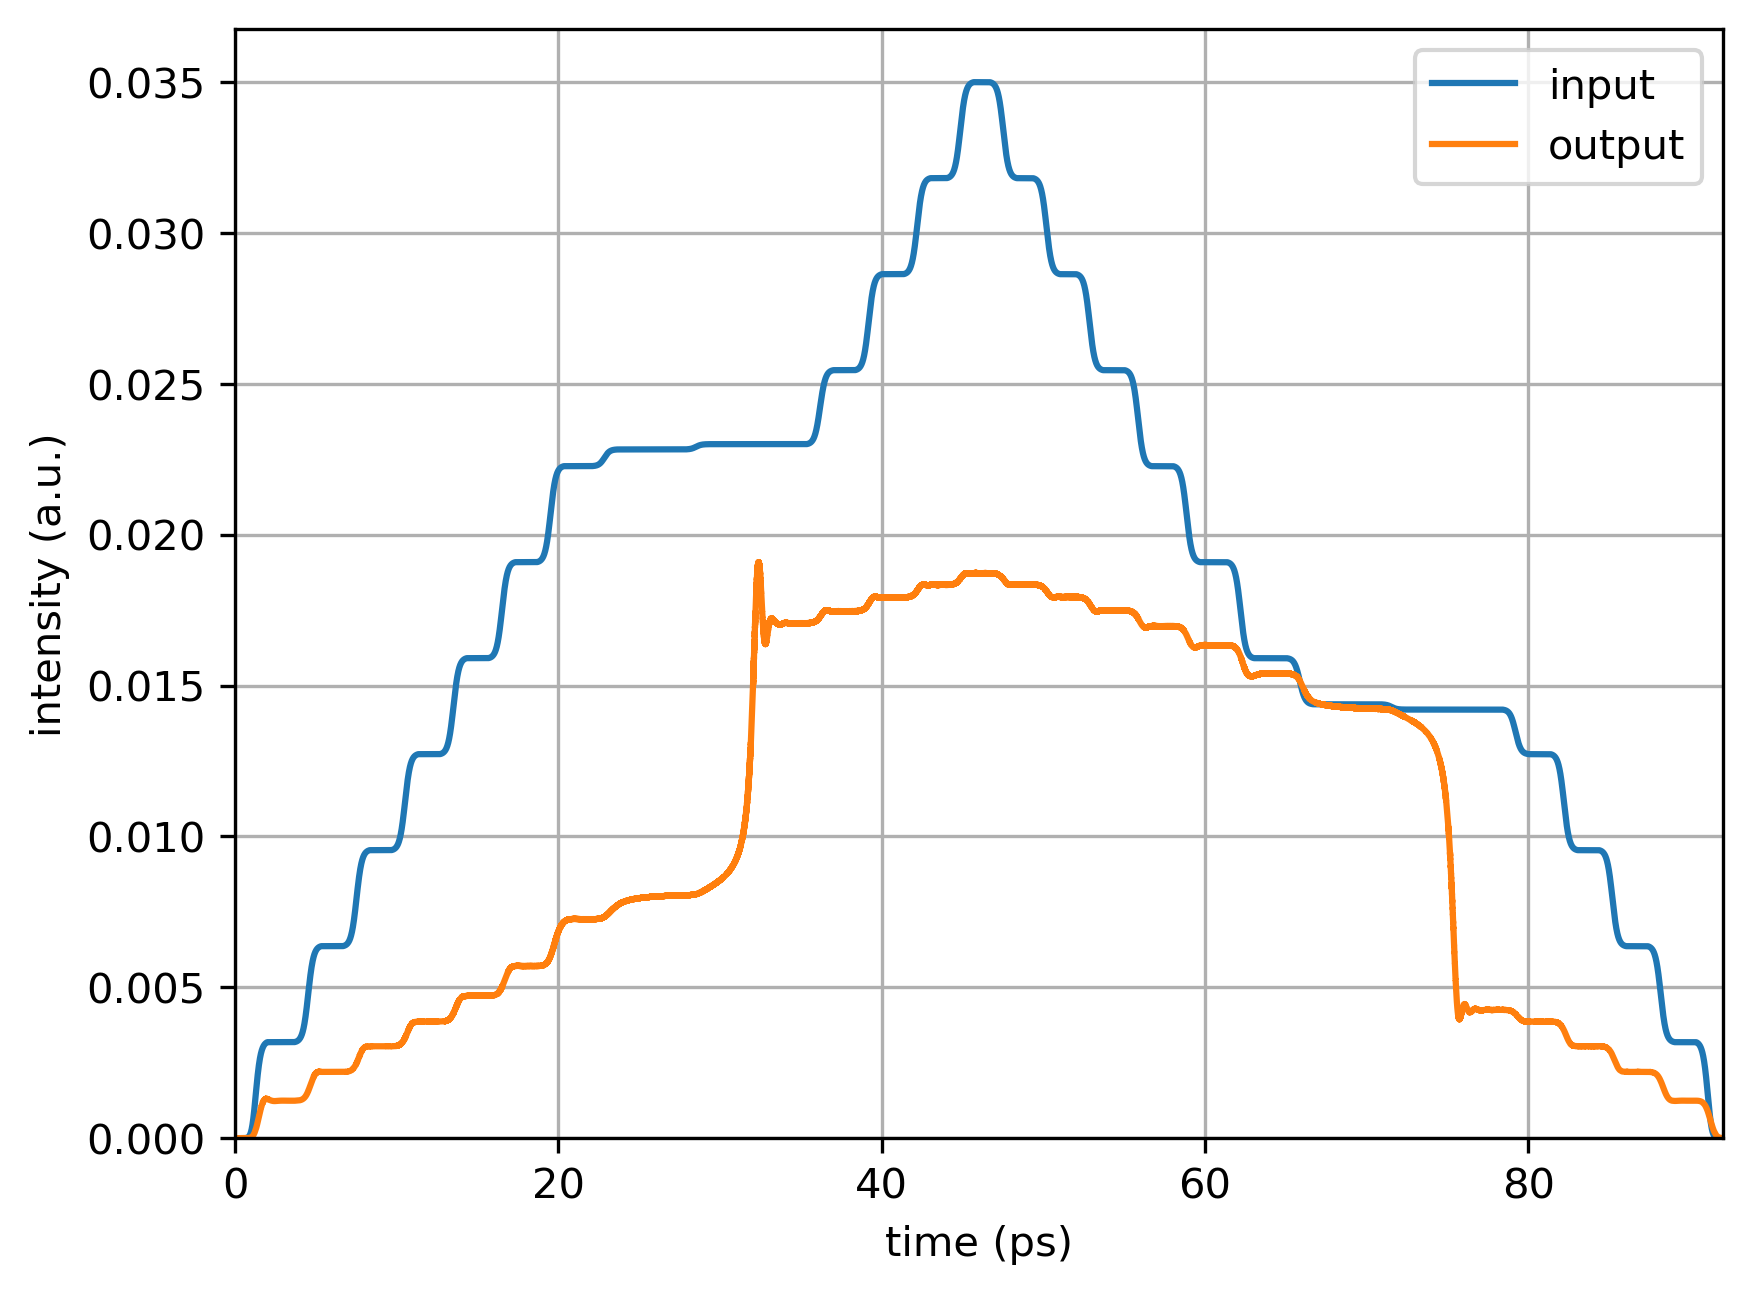
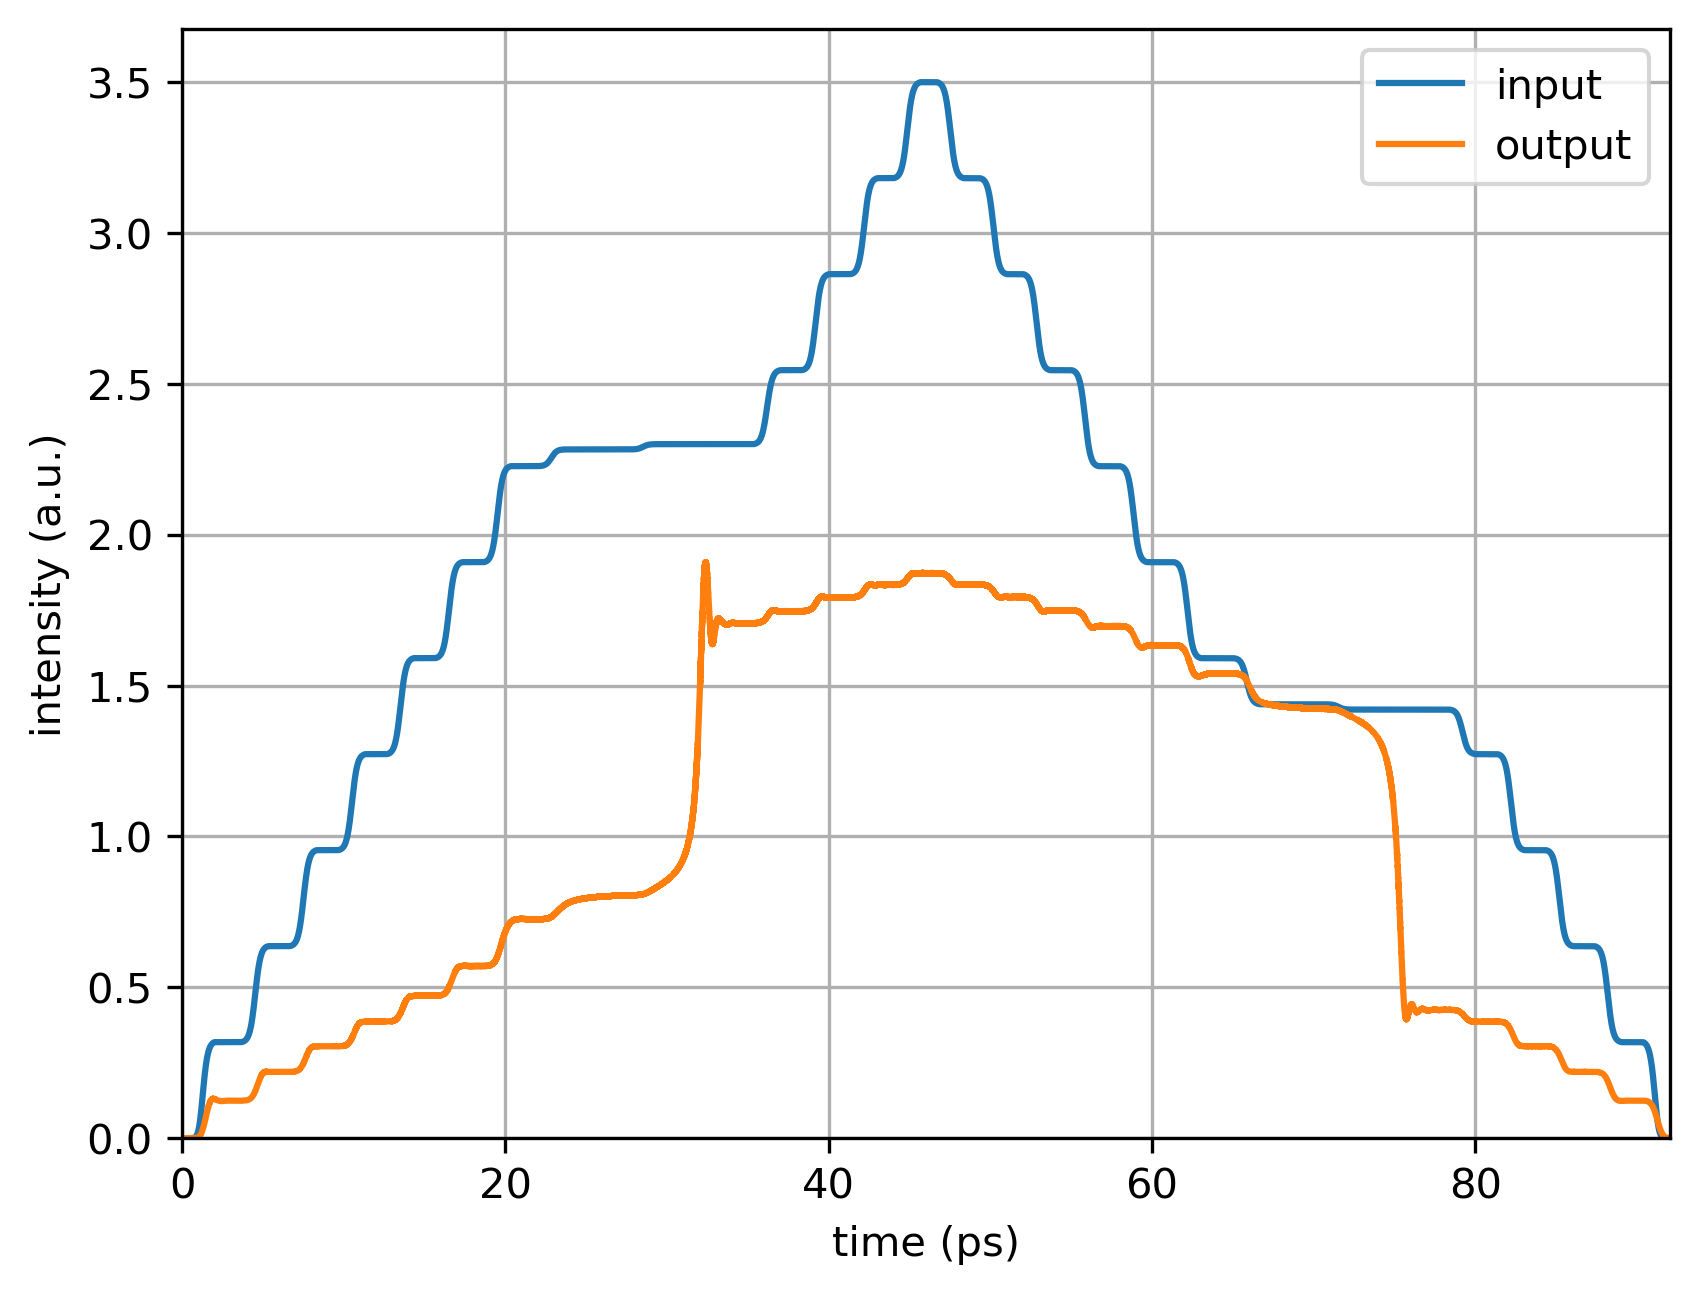
Fix y-axis on intensity-time plot

diff --git a/demo_codes/optical_bistability.py b/demo_codes/optical_bistability.py
@@ -345,10 +345,10 @@ time_conversion = a/c*1e12
 
 # plot input and output intensities as a function of time
 fig, ax = plt.subplots()
-ax.plot(t_source*time_conversion, I_inp_envelope*n2, label='input')
-ax.plot(t_S*time_conversion, I_out_envelope*n2, label='output')
+ax.plot(t_source*time_conversion, I_inp_envelope, label='input')
+ax.plot(t_S*time_conversion, I_out_envelope, label='output')
 ax.set_xlim([0, t_S[-1]*time_conversion])
-ax.set_ylim([0, 1.05*n2*I_inp.max()])
+ax.set_ylim([0, 1.05*I_inp.max()])
 ax.set_xlabel('time (ps)')
 ax.set_ylabel('intensity (a.u.)')
 ax.grid()

diff --git a/docs/source/nonlinear_phenomena.rst b/docs/source/nonlinear_phenomena.rst
@@ -1158,10 +1158,10 @@ We will first plot the input and output intensities as a function of time. This 
 
    # plot input and output intensities as a function of time
    fig, ax = plt.subplots()
-   ax.plot(t_source*time_conversion, I_inp_envelope*n2, label='input')
-   ax.plot(t_S*time_conversion, I_out_envelope*n2, label='output')
+   ax.plot(t_source*time_conversion, I_inp_envelope, label='input')
+   ax.plot(t_S*time_conversion, I_out_envelope, label='output')
    ax.set_xlim([0, t_S[-1]*time_conversion])
-   ax.set_ylim([0, 1.05*n2*I_inp.max()])
+   ax.set_ylim([0, 1.05*I_inp.max()])
    ax.set_xlabel('time (ps)')
    ax.set_ylabel('intensity (a.u.)')
    ax.grid()
